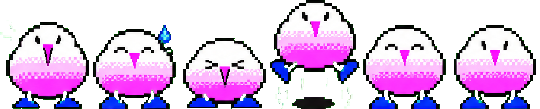
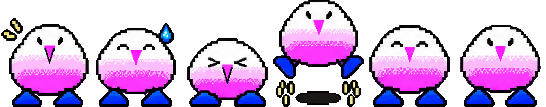
New bird sheet with legs; route backgrounds wired into the pipeline
- sprite_playerdemo no green re-exported on Drive with the legs kept;
  bird strips rebuilt (side row sliced by equal slots, frames touch)
- bg_alley_exit, bg_street, bg_light_end added to tools/bg_pipeline.py and
  looked up by the game; the Drive files are upscaled (1330x1182,
  1536x1024), so they are reported and skipped until native exports exist

Claude-Session: https://claude.ai/code/session_01GfLpN3GUHf8D7yq5maBAzC

Changed region(s): [[0.0, 0.0, 1.0, 1.0]]

diff --git a/src/scenes/TrickOrTreatScene.js b/src/scenes/TrickOrTreatScene.js
@@ -428,9 +428,10 @@ export class TrickOrTreatScene extends Phaser.Scene {
     const near = nativeLayer(this, 'bg/alley_near') ?? 'bg_alley_near';
     const pieces = [];
     for (let x = exitLeft + W; x < C.GAME_W; x += W) pieces.push([near, x]);
-    pieces.push(['bg_alley_exit', exitLeft]);
-    for (let right = exitLeft; right > lightLeft + W; right -= W) pieces.push(['bg_street', right - W]);
-    pieces.push(['bg_light_end', lightLeft]);
+    const piece = (name) => nativeLayer(this, `bg/${name}`) ?? name; // pipeline output, else marker
+    pieces.push([piece('bg_alley_exit'), exitLeft]);
+    for (let right = exitLeft; right > lightLeft + W; right -= W) pieces.push([piece('bg_street'), right - W]);
+    pieces.push([piece('bg_light_end'), lightLeft]);
     for (const [key, x] of pieces) this.world.add(this.add.image(x, 0, key).setOrigin(0));
 
     // Props from assets/bg/alley_layout.json (tiled every 720 px over the soi part).

diff --git a/tools/bg_pipeline.py b/tools/bg_pipeline.py
@@ -151,6 +151,9 @@ def main():
     os.makedirs(OUT_BG, exist_ok=True)
     far = layer('alley_far', opaque=True)
     near = layer('alley_near', opaque=False)
+    # Route pieces (sky transparent). bg_street must be a 7-Eleven-STYLE shop: no real logo.
+    for name in ('bg_alley_exit', 'bg_street', 'bg_light_end'):
+        layer(name, opaque=False)
     p = props()
     if p is None:
         say('layout: no props -> alley_layout.json not written')
